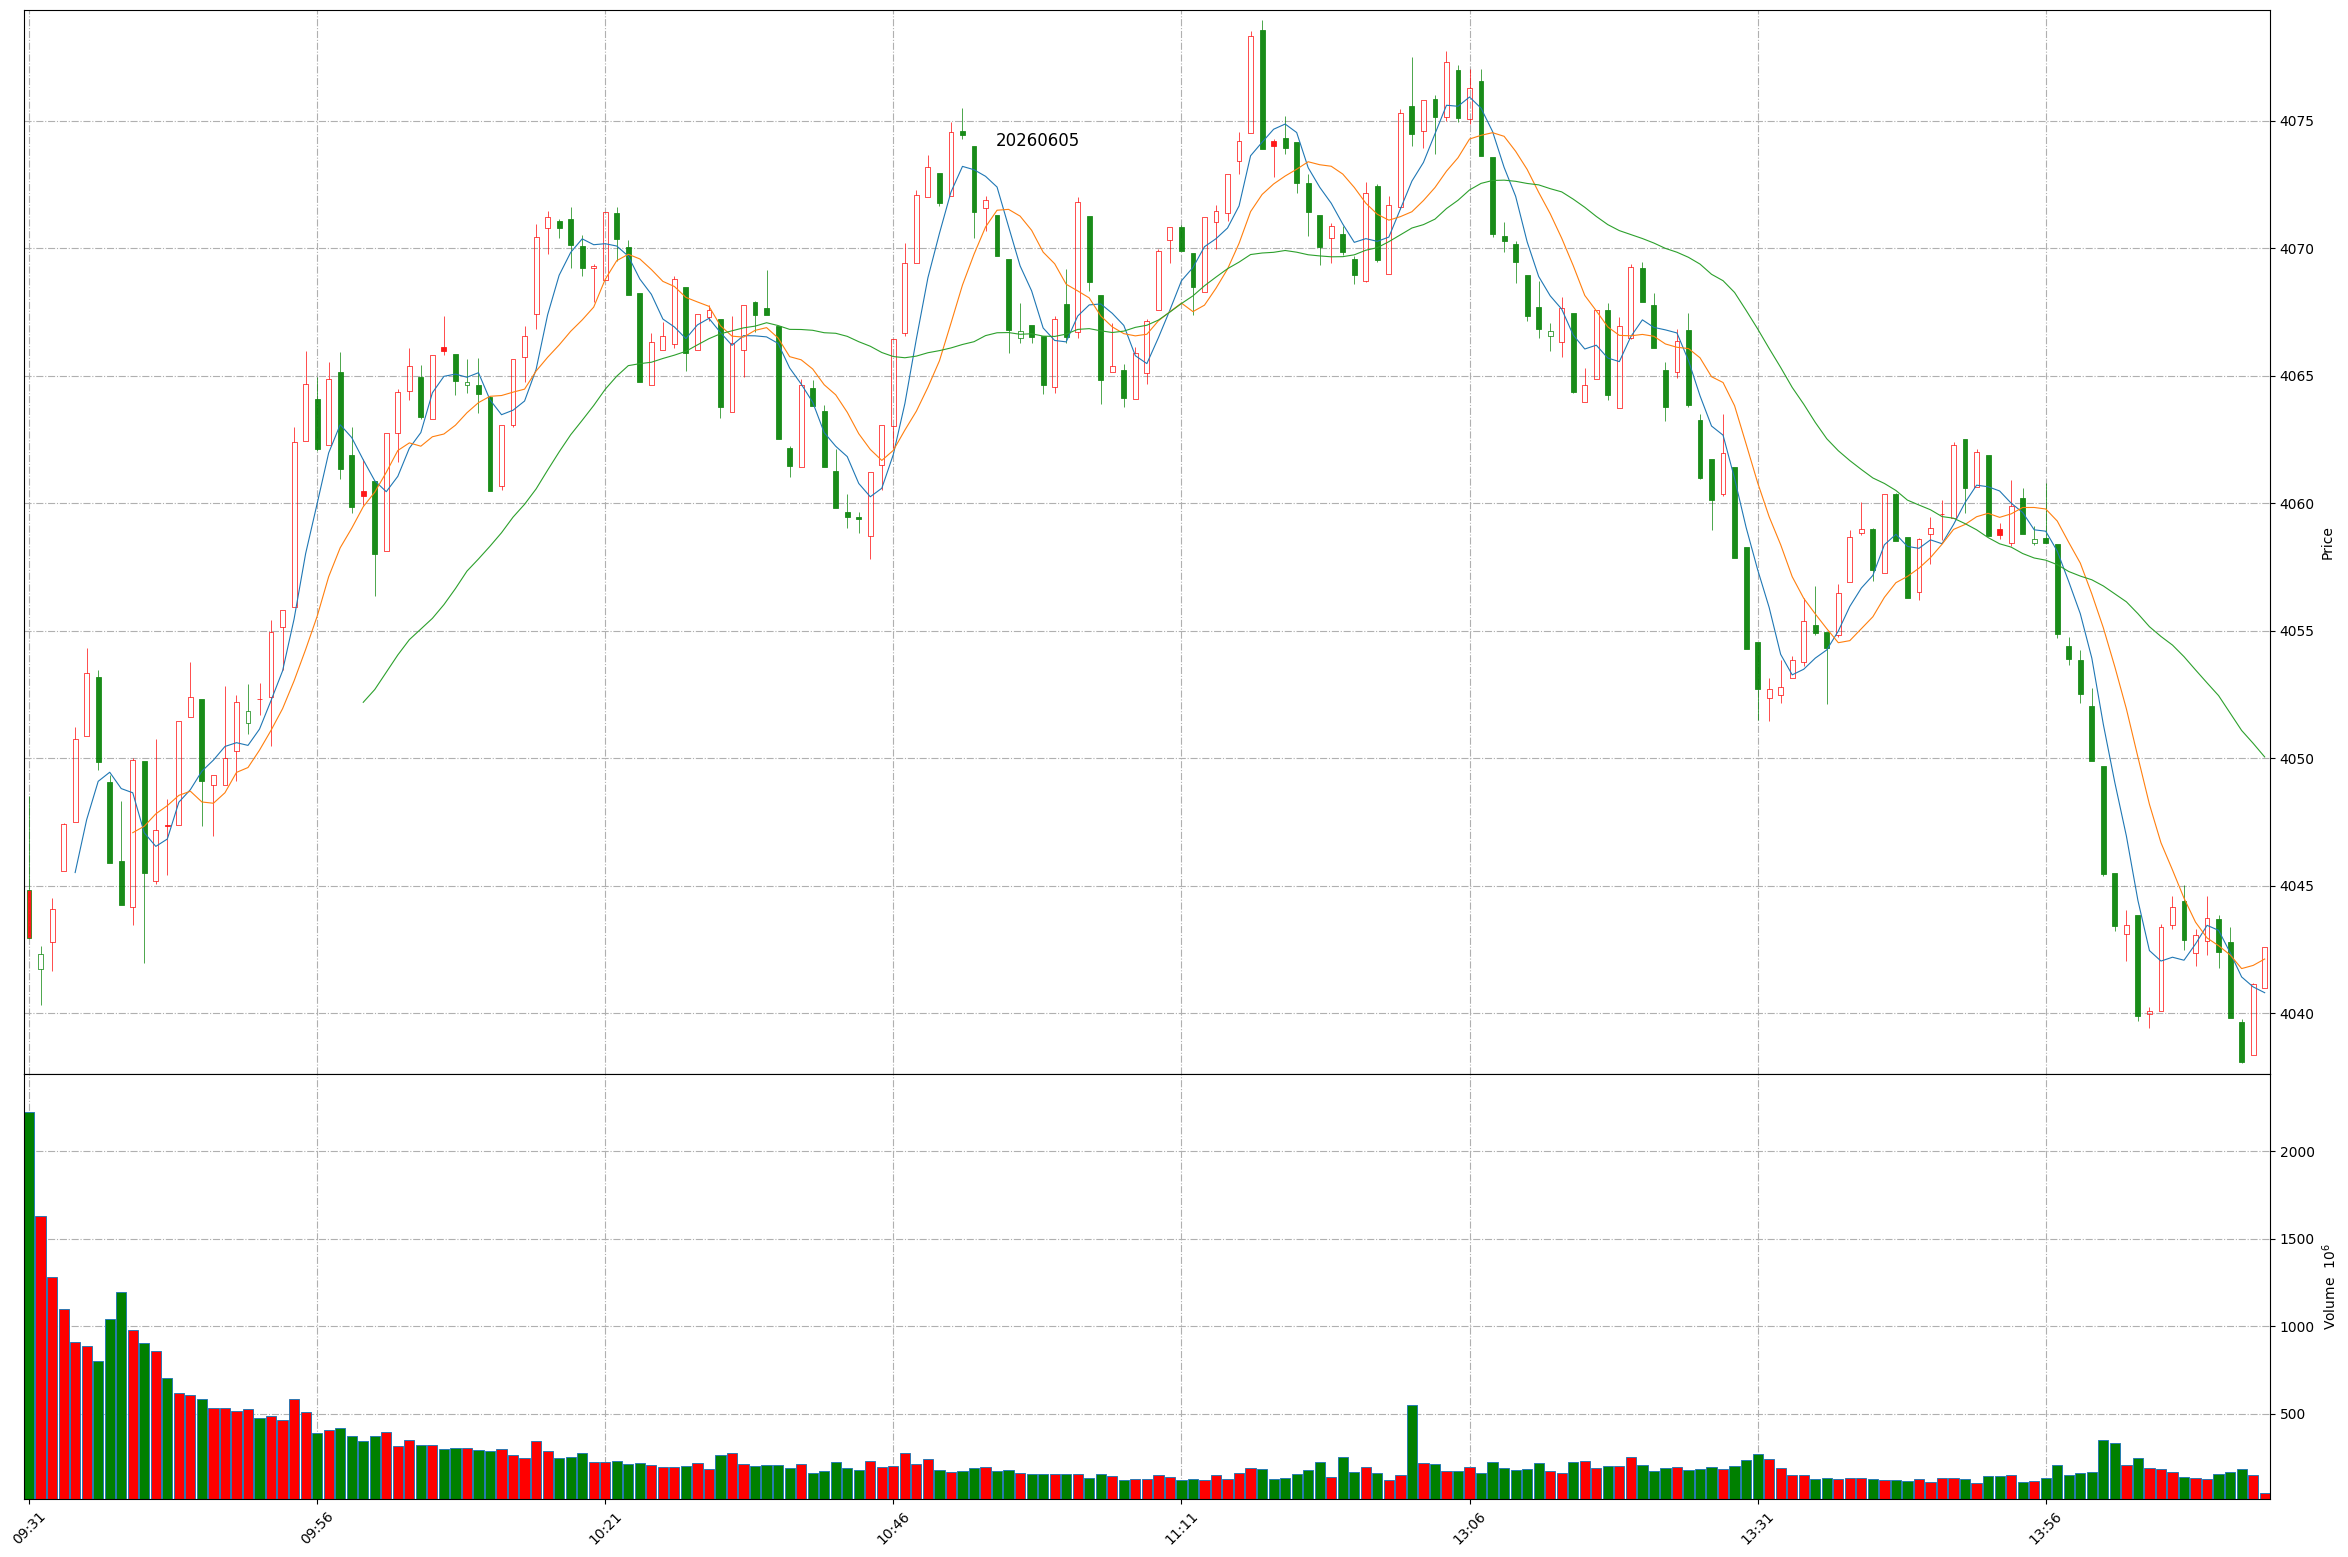
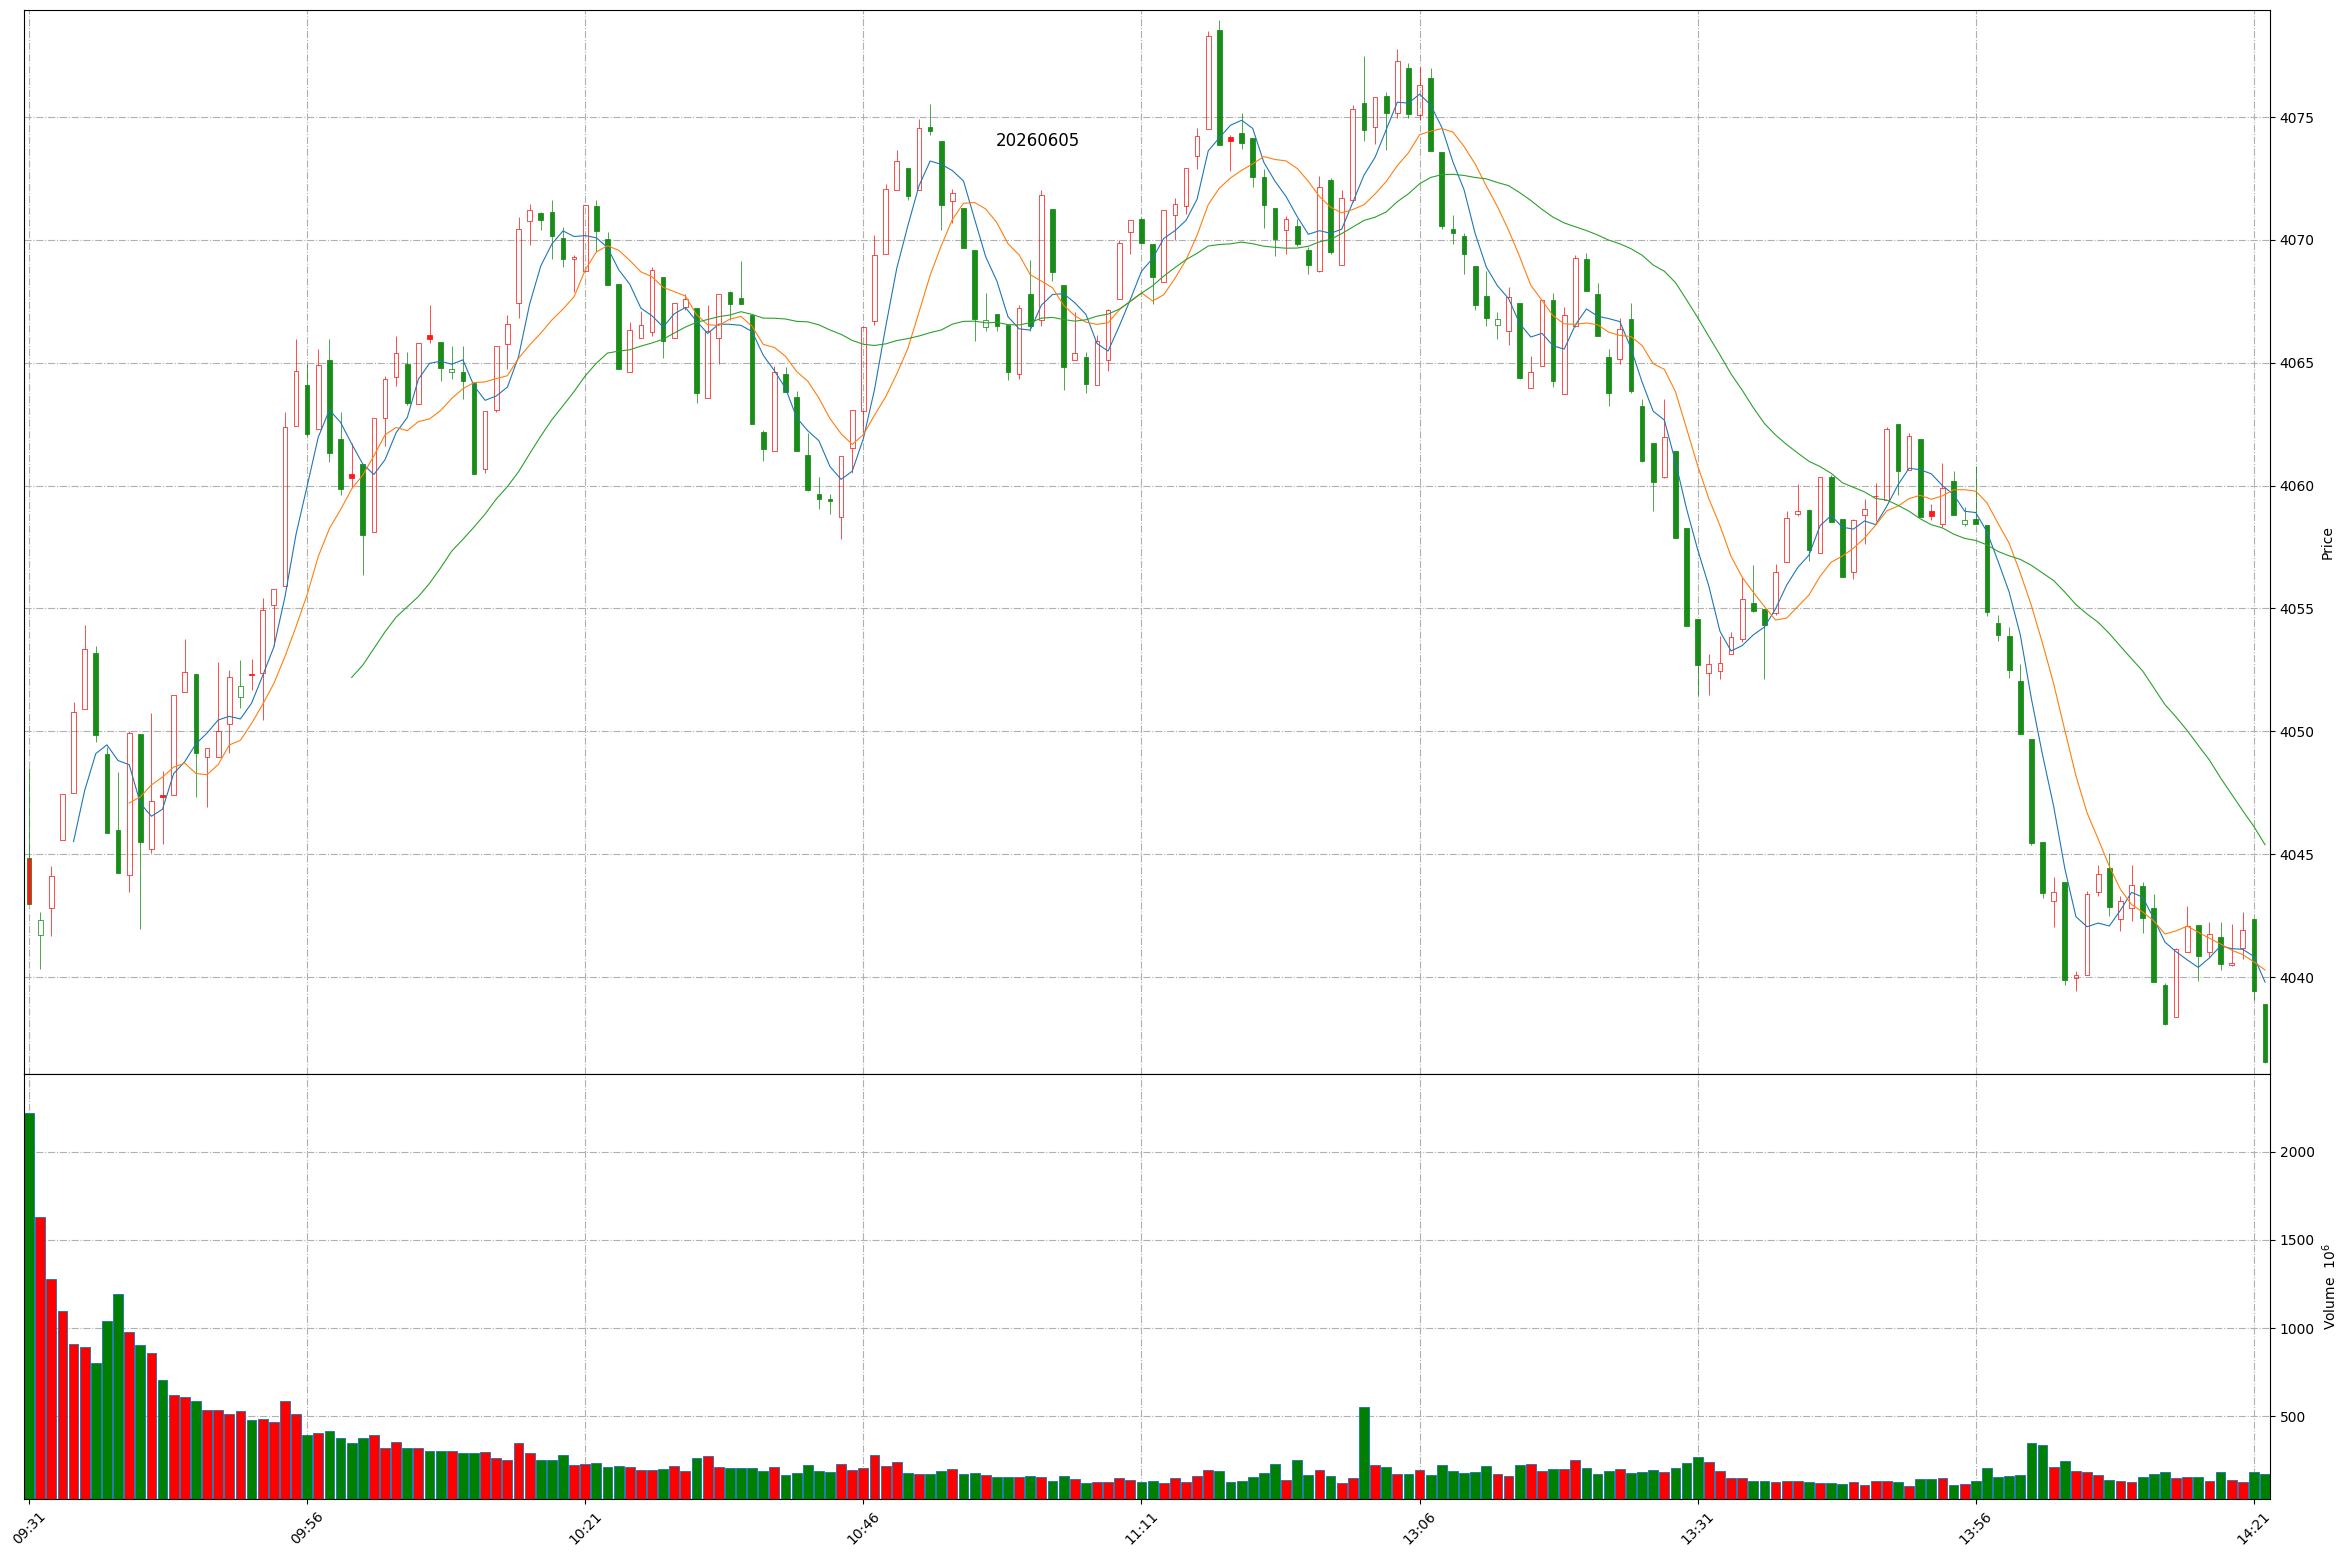
Github action update at 2026-06-05 14:21:53.

diff --git a/README.md b/README.md
@@ -1,11 +1,11 @@
 
 # Daily-A-share-market-quotes 每日 A 股指数（5min 更新）- 20260605
 
-### 上证指数 20260605 14:14
+### 上证指数 20260605 14:21
 ![](./fig/2026/6/20260605-sh000001.png)
 
-### 深证成指 20260605 14:14
+### 深证成指 20260605 14:21
 ![](./fig/2026/6/20260605-sz399001.png)
 
-### 北证50 20260605 14:14
+### 北证50 20260605 14:21
 ![](./fig/2026/6/20260605-bj899050.png)
